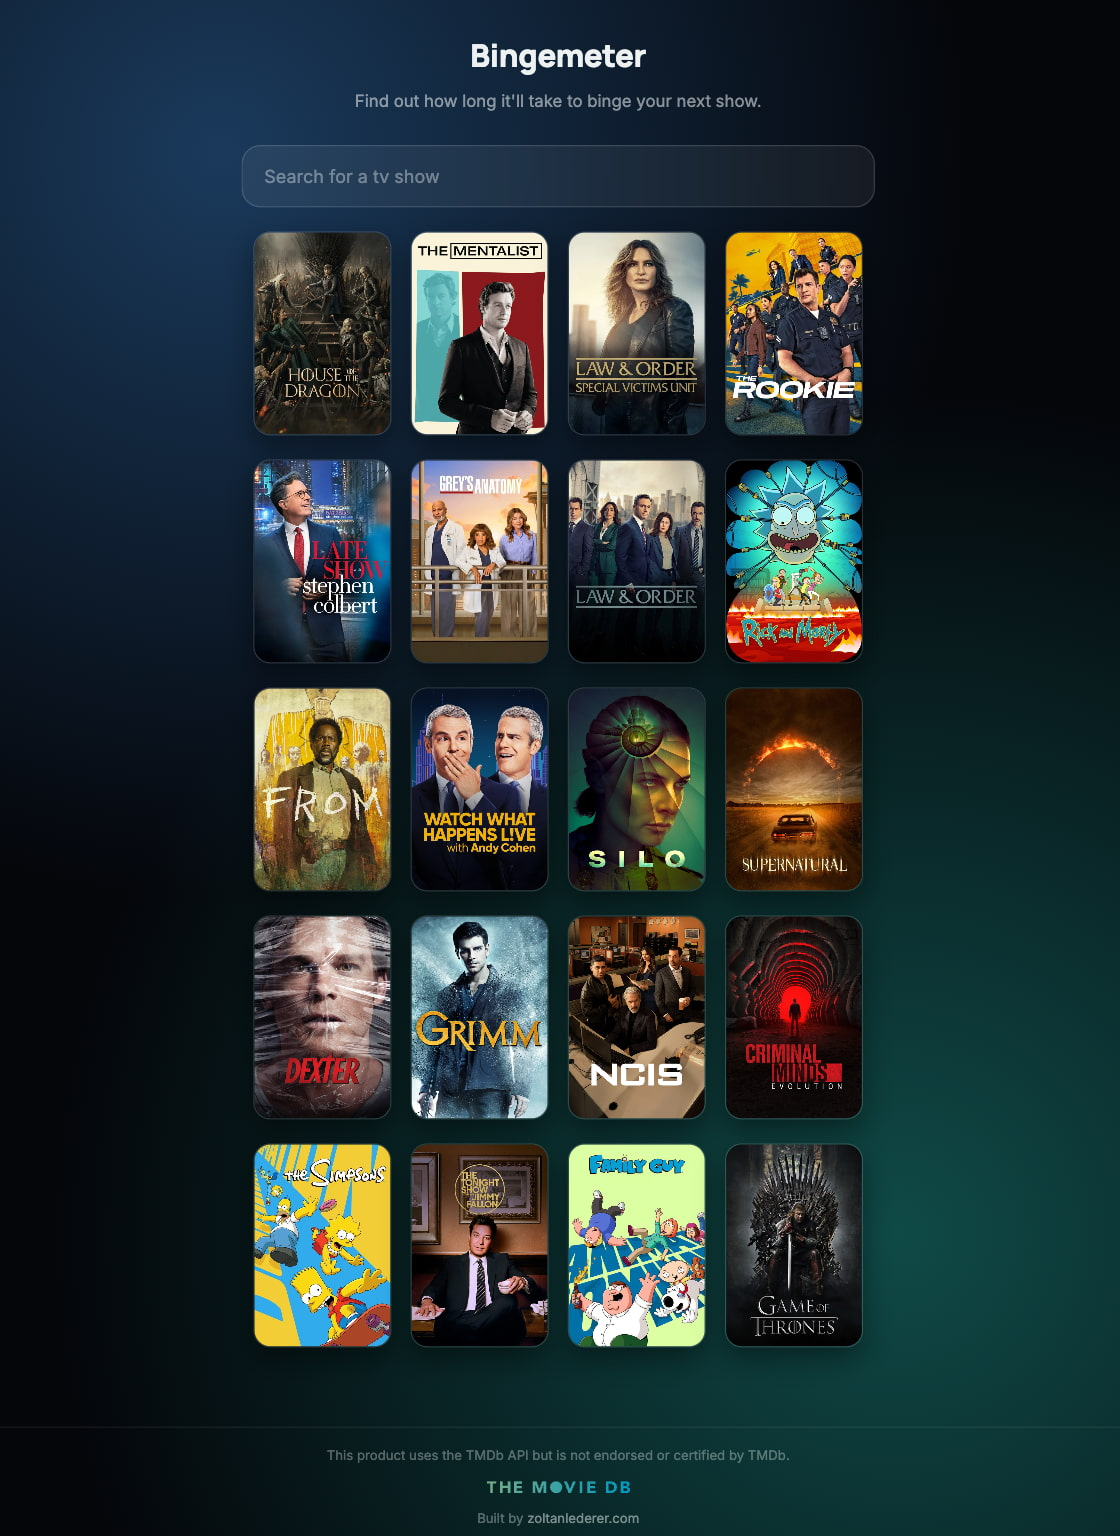
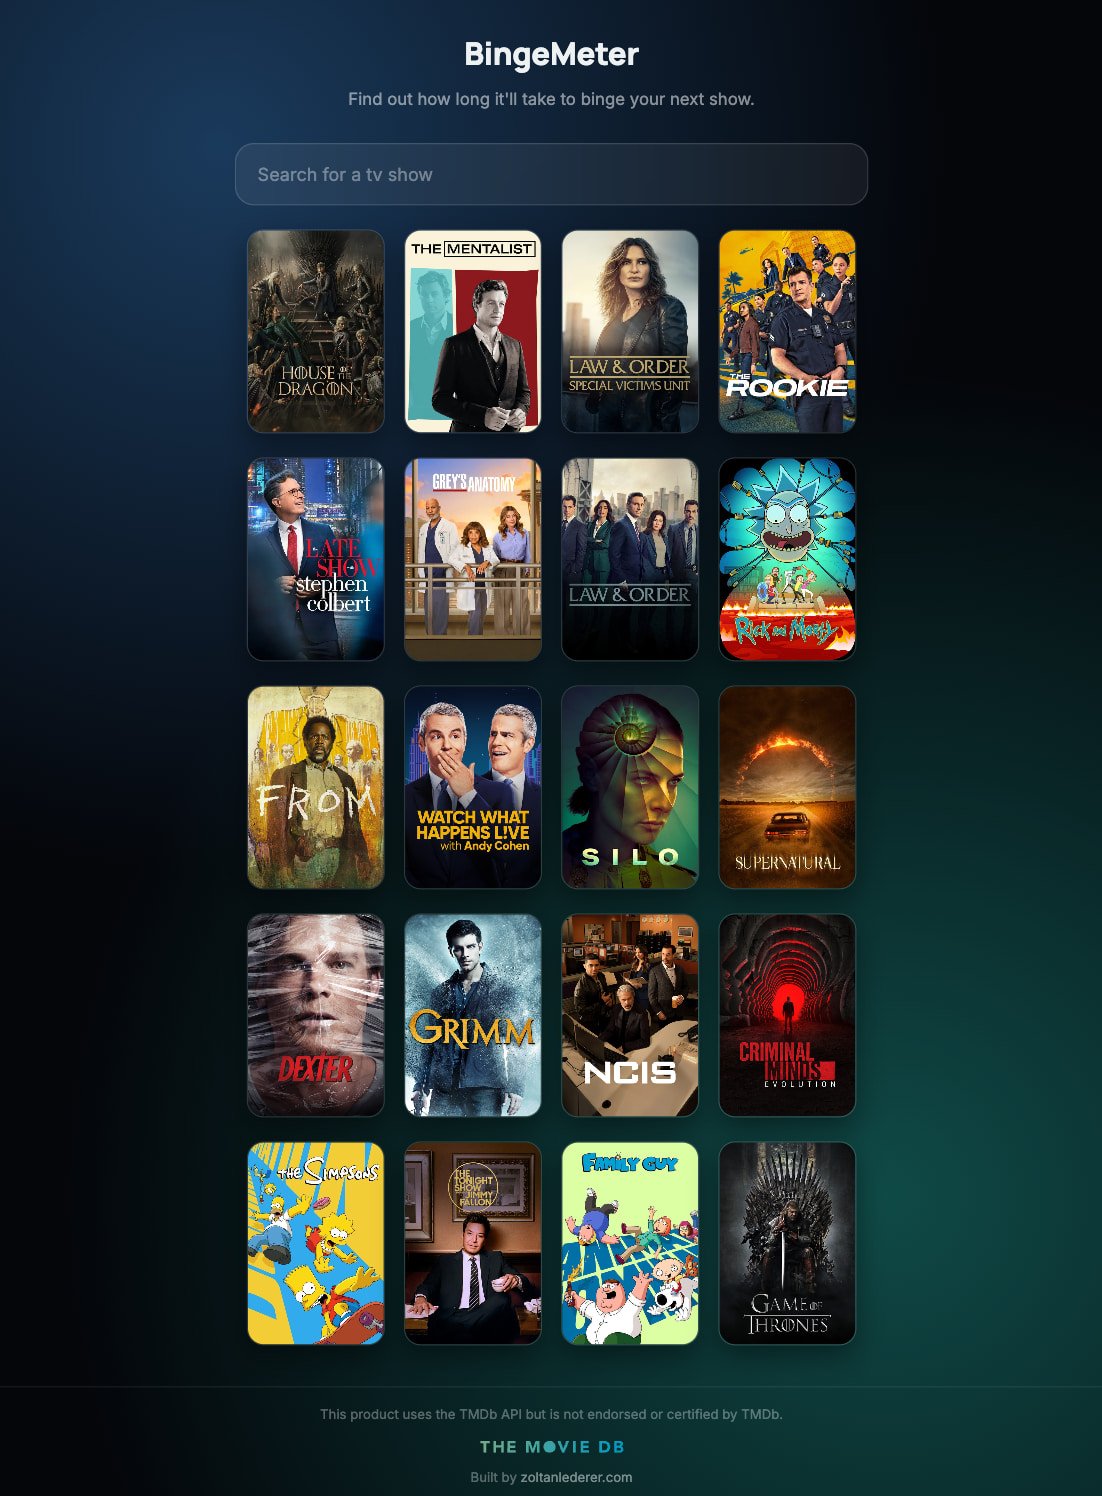
Rename title to BingeMeter

Changed region(s): [[0.216, 0.0922, 0.8022, 1.0], [0.4011, 0.0307, 0.6788, 0.0922]]

diff --git a/index.html b/index.html
@@ -8,11 +8,11 @@
     <meta name="viewport" content="width=device-width, initial-scale=1.0" />
     <meta property="og:type" content="website">
     <meta property="og:url" content="https://bingemeter.zoltanlederer.com/">
-    <meta property="og:title" content="Bingemeter — Binge-Watch Calculator">
+    <meta property="og:title" content="BingeMeter — Binge-Watch Calculator">
     <meta property="og:description" content="Find out how long it'll take to binge your next TV show. Search, pick your seasons, set your pace, and see a personalized watch-time estimate.">
     <meta property="og:image" content="https://bingemeter.zoltanlederer.com/og/bingemeter.jpg">
     <link rel="canonical" href="https://bingemeter.zoltanlederer.com/">
-    <title>Bingemeter</title>
+    <title>BingeMeter</title>
     <link rel="preconnect" href="https://fonts.googleapis.com">
     <link href="https://fonts.googleapis.com/css2?family=Manrope:wght@400;500;700;800&family=Inter:wght@400;500;600&display=swap" rel="stylesheet">
       <!-- Google tag (gtag.js) -->

diff --git a/src/App.jsx b/src/App.jsx
@@ -428,7 +428,7 @@ function App() {
       )}
 
       <div className="app">
-        <h1 className="app-title" onClick={handleReset}>Bingemeter</h1>
+        <h1 className="app-title" onClick={handleReset}>BingeMeter</h1>
         <p className="app-subtitle">Find out how long it'll take to binge your next show.</p>
 
         <div className="search-wrap">
